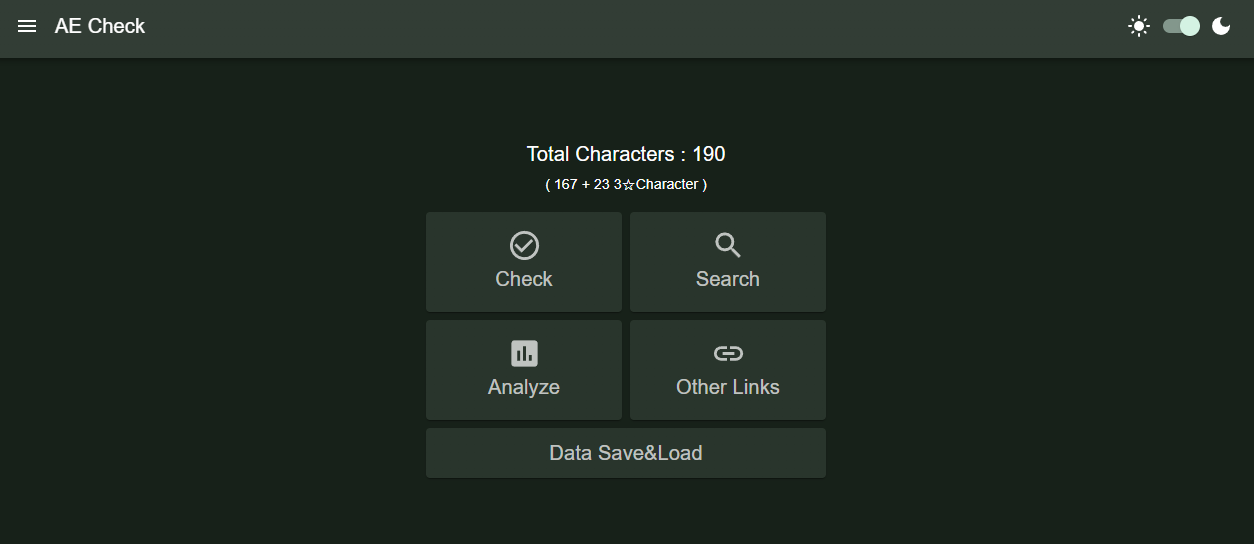
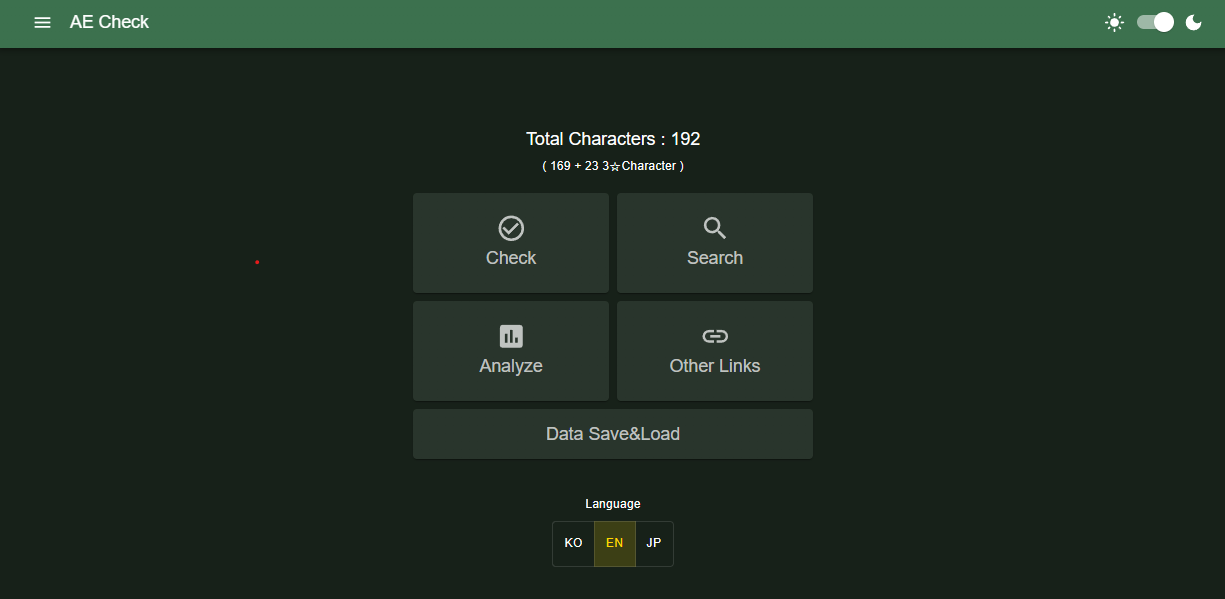
231104 DOCS Update

diff --git a/v3_docs/guide.md b/v3_docs/guide.md
@@ -8,6 +8,7 @@ https://test.aecheck.com/
 ![img1]
 - Press menu icon on left-top to open sidebar.
 - Dark mode can be changed on right-top switch.
+- Language can be changed on main page too.
 
 ### Sidebar
 ![img2]
@@ -25,7 +26,7 @@ https://test.aecheck.com/
 - You can check/uncheck all selected characters w/ button.
 - Newly updated characters are showed with border.
 
-- If character is checked, green check icon is showed on right-top of the character.   
+> If character is checked, green check icon is showed on right-top of the character.   
  
 
 #### Manifest Check
@@ -36,7 +37,7 @@ https://test.aecheck.com/
 - You can change all manifest state w/ button.   
 (Only owned character's manifest are changed.)
 
-- If character's manifest state is on maximum, crown icon is showed on left-bottom.
+> If character's manifest state is on maximum, crown icon is shown on left-bottom.
 
 #### Grasta Check
 ![img5]
@@ -44,7 +45,18 @@ https://test.aecheck.com/
 - Try using filters and search bar to find characters.
 - You can change all grasta state w/ button.   
 
-- If you chacked grasta on owned character, grasta is showed instead of green check icon.
+> If you chacked grasta on owned character, grasta is shown instead of green check icon.
+
+#### Star Align Check
+If you don't know what Star Align is, see: https://api.another-eden.jp/asset/notice_v2/view/3263?language=ja
+
+![img10]
+- You can change Star Align status.
+- If Star Align is unavailable, description is showed instead.
+- Try using filters and search bar to find characters.
+- You can change all Star Align state w/ button.   
+
+> If character's Star Align status is on maximum, another format of image will be shown.
 
 <br>
 
@@ -122,3 +134,4 @@ Same UI for Legacy version's "My Result".
 [img7]: ../image/guide7.png
 [img8]: ../image/guide8.png
 [img9]: ../image/guide9.png
+[img10]: ../image/guide10.png

diff --git a/v3_docs/what_is_changed.md b/v3_docs/what_is_changed.md
@@ -14,11 +14,12 @@ So I separated all characters on new website, and added many filter options to f
 
 <br>
 
-#### Deletion of Buddy Check, and New Check : Grasta
+#### Deletion of Buddy Check, and New Check : Grasta & Star Align
 For now, you can get buddies in 2 ways : from game content, or encounter.   
 I thought that it's unnecessary to double-check buddy in current situation, so I removed buddy check and provide buddy's info only.
 
-Grasta check is added because many AE players are considering for that. Hope that it helps.
+Grasta check is added because many AE players are considering for that. Hope that it helps.   
+Star Align is a new system from JAP version, see: https://api.another-eden.jp/asset/notice_v2/view/3263?language=ja
 
 <br>
 
@@ -31,7 +32,7 @@ Other data verification will be added someday, if needed.
 <br>
 
 #### Link other info site
-I linked [Seesaa Wiki][ref1] page by character, and [Altema][ref2] / [AE Wiki][ref3] for dungeon.
+I linked [Seesaa Wiki][ref1] / [AE Wiki][ref3] page by character, and [Altema][ref2] / [AE Wiki][ref3] for dungeon.
 
 I selected Seesaa Wiki because it has many reasonable data, based on JP server.
 
@@ -56,4 +57,4 @@ This functionality had been maintained from AE Check's first version, but I dete
 [ref3]: https://anothereden.wiki/
 
 [img1]: ../image/patch1.png
-[img2]: ../image/patch2.png
+[img2]: ../image/guide3.png
